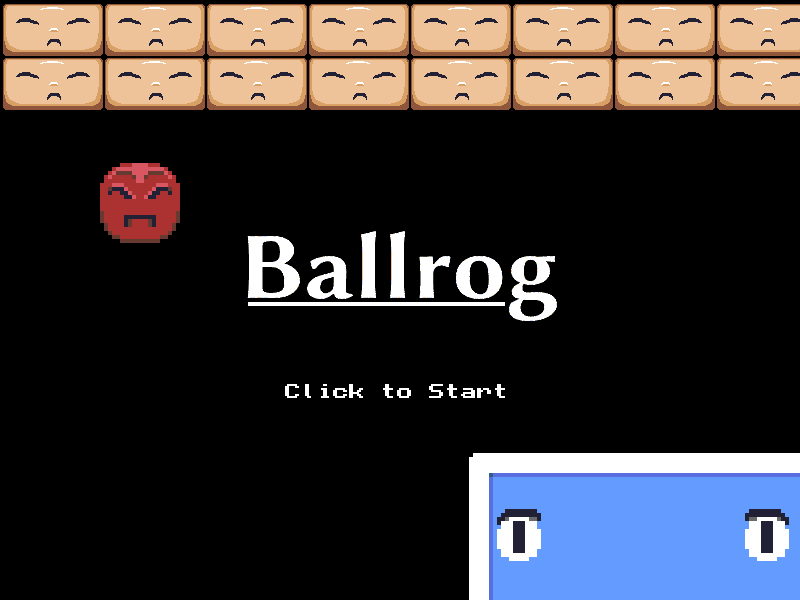
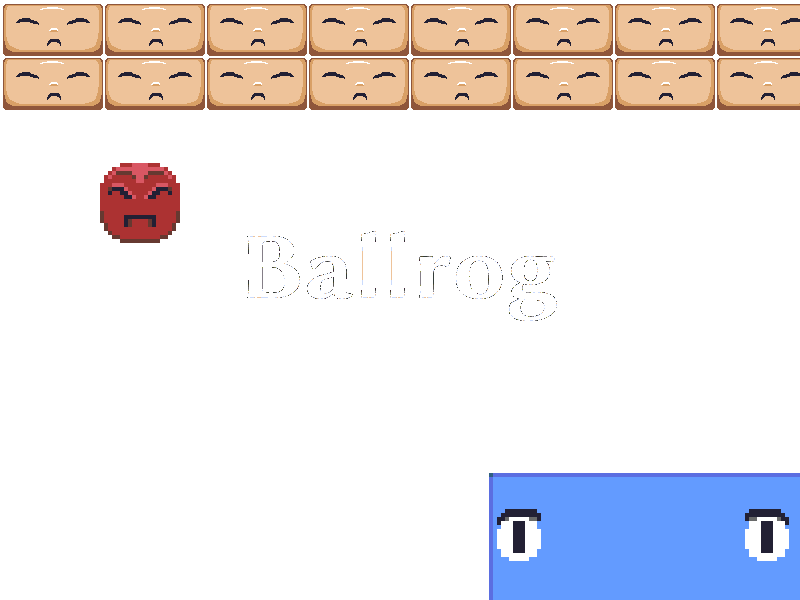
background plasma added to title screen and demo mode

diff --git a/js/Main.js b/js/Main.js
@@ -266,7 +266,8 @@ function checkAndRewardPlayer() {
 
 function drawTitleScreen() {
 	var line = 120;
-	colorRect(0, 0, canvas.width, canvas.height, 'black');
+	//colorRect(0, 0, canvas.width, canvas.height, 'black');
+	drawBackground();	
 	drawBitMap(titlePic, 0, 0);
 	canvasContext.fillStyle = 'white';
 	canvasContext.textAlign = 'center';

diff --git a/js/demoMode.js b/js/demoMode.js
@@ -20,6 +20,7 @@ function demoKeepTime(){
 
 function drawDemoScreen(){
 		colorRect(0, 0, canvas.width, canvas.height, 'rgb(75,105,47 )');
+		drawBackground();		
 		colorText(score.toString(), canvas.width/2, 20, 'white');
 		colorText('High Score: ' + highScore.toString(), 10, 20, 'white');
 		drawLives();
